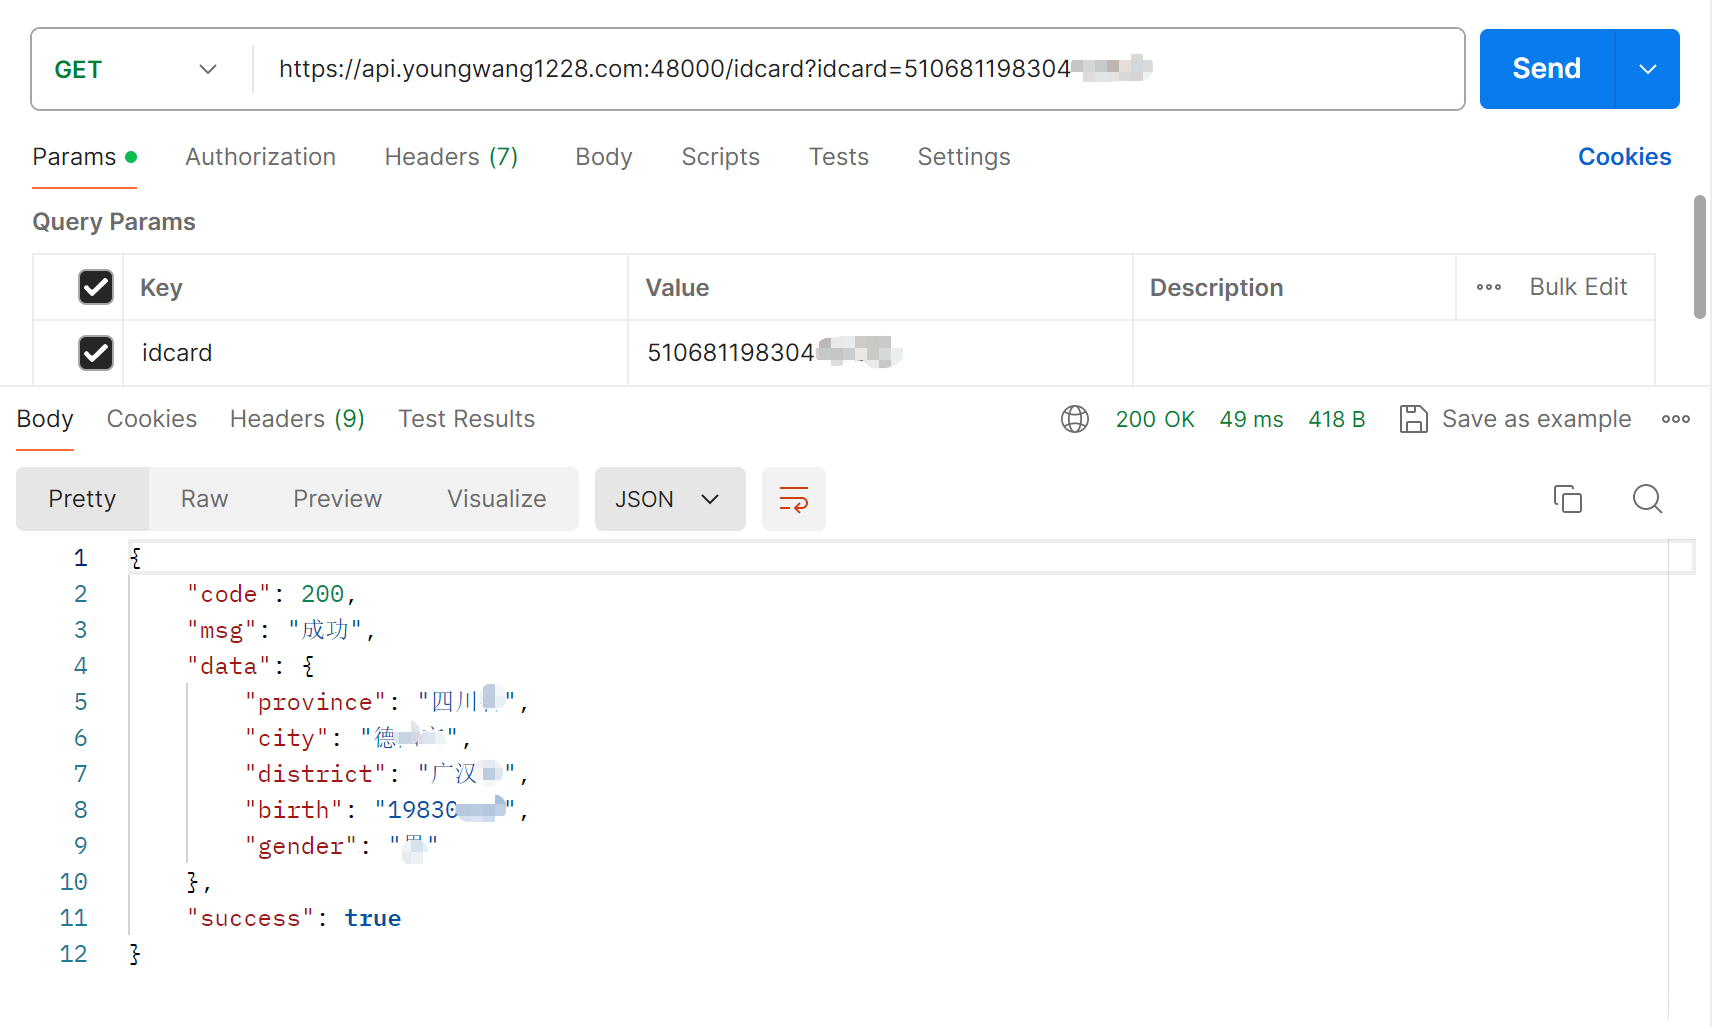
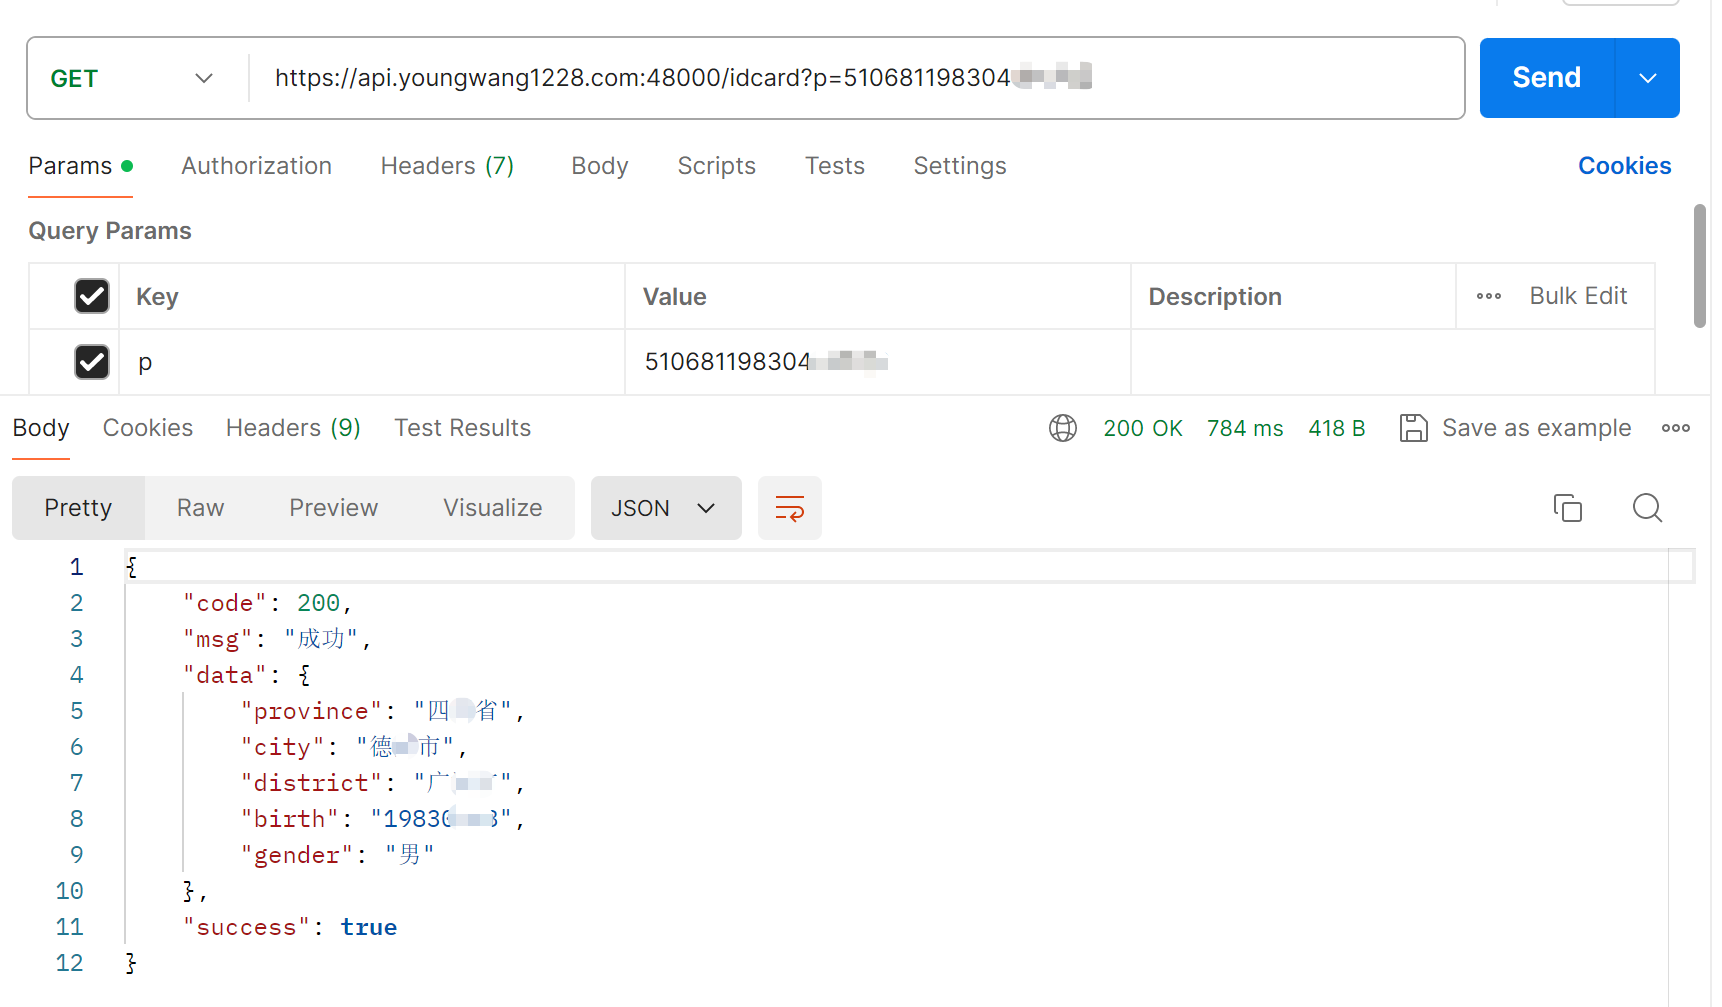
idcard参数调整

diff --git a/_posts/2024-07-01-idcard.md b/_posts/2024-07-01-idcard.md
@@ -10,7 +10,7 @@ description: 身份证查询
 
 
 ### API地址
-* 接口地址：*`GET` https://api.youngwang1228.com:48000/idcard?idcard={idcard}*
+* 接口地址：*`GET` https://api.youngwang1228.com:48000/idcard?p={idcard}*
 * 价格：*<span style="color: dodgerblue;">免费</span>*
 * 频率：*<span style="color: red;">300</span> 次/分钟*
 
@@ -19,13 +19,13 @@ description: 身份证查询
 
 参数        |类型        |必填         |说明
 :-          |:-         |:-           |:-
-idcard      |string     |是           |身份证号码
+p           |string     |是           |身份证号码
 
 </div>
 
 ### 请求示例
 ```
-https://api.youngwang1228.com:48000/idcard?idcard=51068119830418****
+https://api.youngwang1228.com:48000/idcard?p=51068119830418****
 ```
 ![idcard](/assets/doc/idcard/1.png)
 
